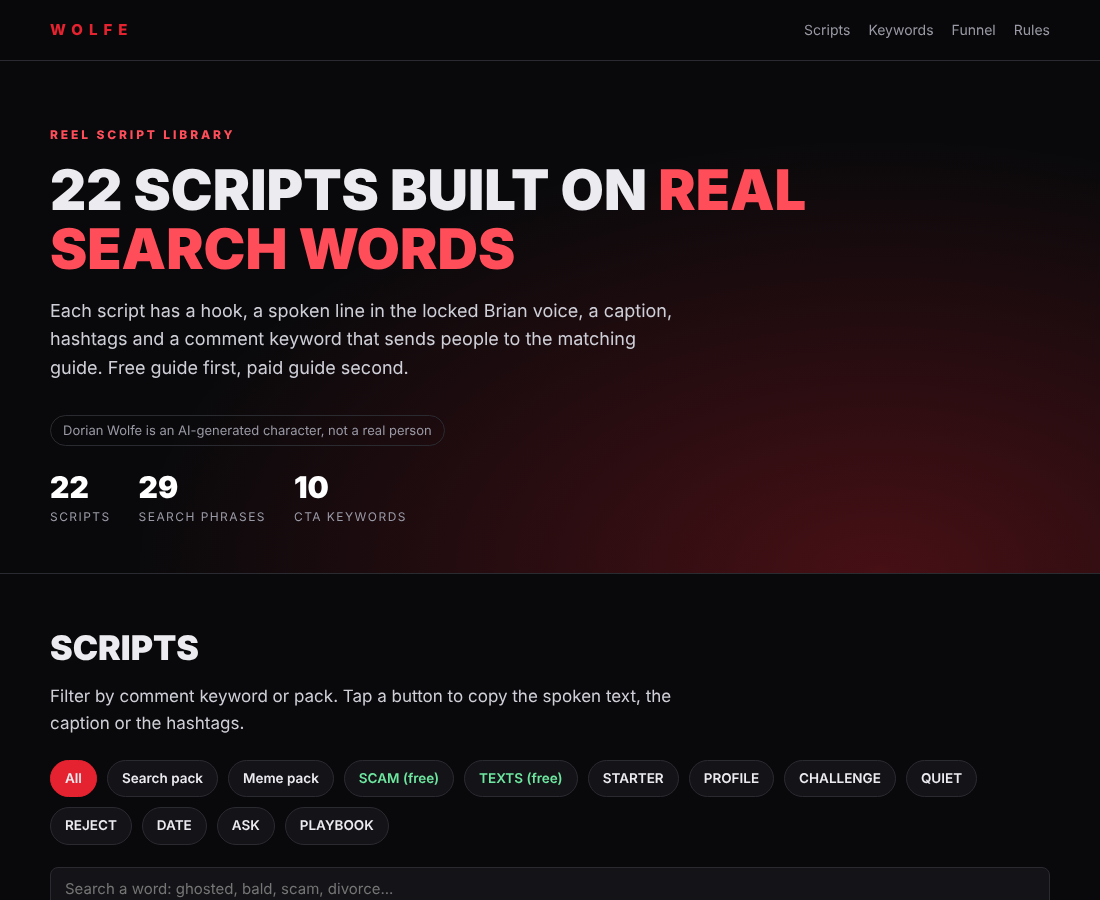
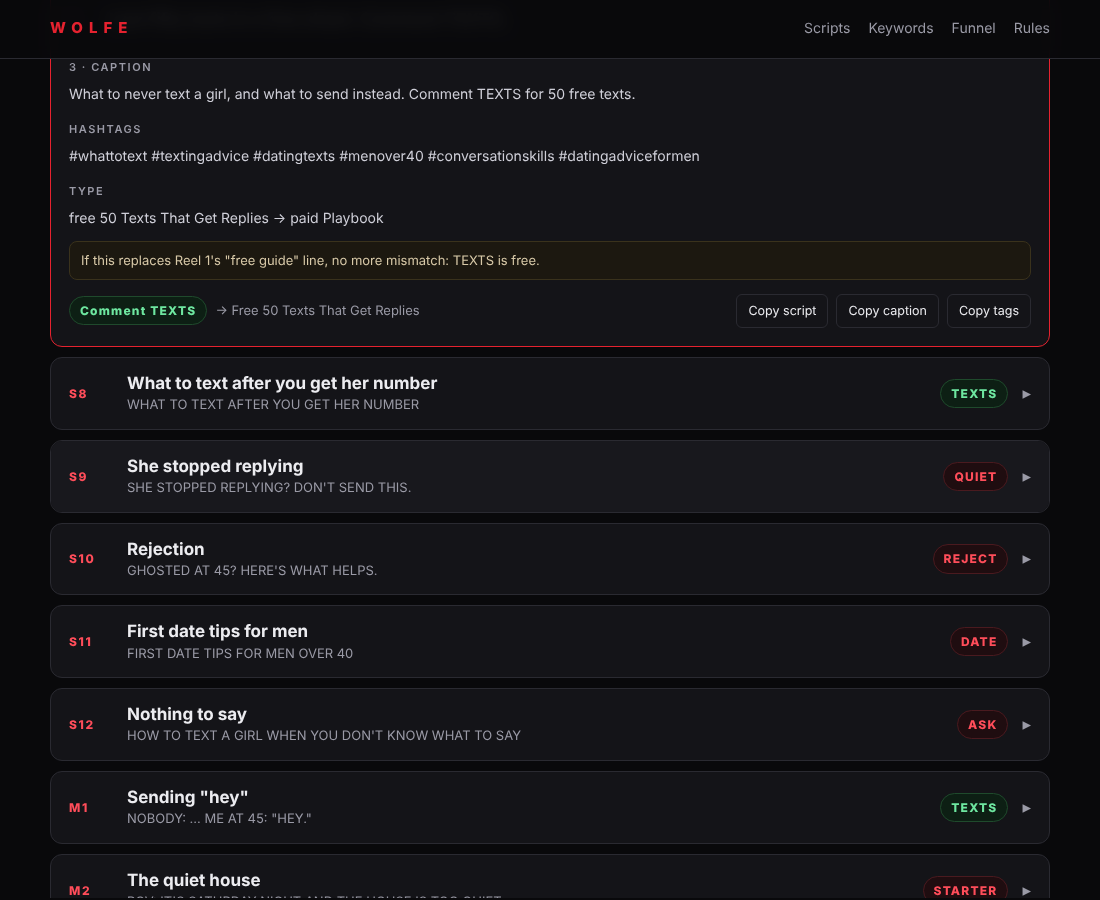
Script library: one script per row, spoken text shown line by line
Claude-Session: https://claude.ai/code/session_01HHQShzX9rwDCsFJD58ZkHd

diff --git a/sales-kit/scripts/index.html b/sales-kit/scripts/index.html
@@ -34,26 +34,36 @@ h2{font-size:clamp(24px,4vw,34px);line-height:1.1;margin:.2em 0 .5em;text-transf
 .chip.on{background:var(--red);border-color:var(--red)}
 .chip.free{color:var(--green)}.chip.free.on{color:#fff}
 #q{flex:1;min-width:200px;background:var(--panel);border:1px solid var(--line);color:var(--text);border-radius:8px;padding:9px 14px;font:inherit;font-size:15px}
-.grid{display:grid;grid-template-columns:repeat(auto-fill,minmax(310px,1fr));gap:20px}
-.card{background:var(--panel);border:1px solid var(--line);border-radius:14px;display:flex;flex-direction:column;overflow:hidden}
-.card .top{padding:16px 18px 6px}
-.code{font-size:11px;font-weight:800;letter-spacing:.2em;color:var(--red2);text-transform:uppercase}
-.card h3{margin:.15em 0 .1em;font-size:19px;line-height:1.25}
-.pain{font-size:13px;color:var(--mute)}
-.hook{margin:10px 18px;background:#0d0d10;border:1px solid #4a1a1f;border-left:3px solid var(--red);border-radius:8px;padding:10px 12px;font-family:ui-monospace,Menlo,Consolas,monospace;font-size:13.5px;color:var(--red2);font-weight:700}
-.hook small{display:block;color:var(--mute);font-weight:500;font-size:11px;letter-spacing:.14em;text-transform:uppercase;margin-bottom:2px;font-family:Inter,system-ui,sans-serif}
-.script{padding:4px 18px 8px;font-size:15px;color:#d8d8e0}
-.script p{margin:.55em 0}
-.meta{padding:0 18px 12px;font-size:13px;color:var(--mute)}
-.meta b{color:#cfcfd8}
-.kws{color:var(--mute);font-size:12.5px;padding:0 18px 8px}
-.foot{margin-top:auto;border-top:1px solid var(--line);padding:12px 18px;display:flex;gap:8px;flex-wrap:wrap;align-items:center}
-.cta{font-weight:800;letter-spacing:.1em;font-size:12px;background:#1f0d10;border:1px solid #4a1a1f;color:var(--red2);padding:4px 10px;border-radius:999px}
-.cta.free{background:#0d1f14;border-color:#1f4a2c;color:var(--green)}
-.to{font-size:12.5px;color:var(--mute);flex:1;min-width:120px}
-.cp{background:transparent;border:1px solid var(--line);color:var(--text);border-radius:6px;padding:5px 10px;font:inherit;font-size:12px;cursor:pointer}
+.list{display:flex;flex-direction:column;gap:10px}
+.item{background:var(--panel);border:1px solid var(--line);border-radius:12px;overflow:hidden}
+.item.open{border-color:var(--red)}
+.row{display:flex;align-items:center;gap:14px;width:100%;background:none;border:0;color:inherit;font:inherit;text-align:left;padding:14px 18px;cursor:pointer}
+.row:hover{background:#18181d}
+.num{flex:0 0 auto;min-width:44px;font-size:12px;font-weight:800;letter-spacing:.14em;color:var(--red2)}
+.rt{flex:1;min-width:0}
+.rt b{display:block;font-size:17px;line-height:1.3}
+.rt span{display:block;font-size:13px;color:var(--mute);white-space:nowrap;overflow:hidden;text-overflow:ellipsis}
+.arrow{color:var(--mute);transition:transform .2s;flex:0 0 auto}
+.item.open .arrow{transform:rotate(90deg);color:var(--red2)}
+.body{display:none;border-top:1px solid var(--line);padding:6px 18px 18px}
+.item.open .body{display:block}
+.hook{margin:14px 0 6px;background:#0d0d10;border:1px solid #4a1a1f;border-left:3px solid var(--red);border-radius:8px;padding:10px 12px;font-family:ui-monospace,Menlo,Consolas,monospace;font-size:14px;color:var(--red2);font-weight:700}
+.hook small,.lbl{display:block;color:var(--mute);font-weight:600;font-size:11px;letter-spacing:.14em;text-transform:uppercase;margin-bottom:3px;font-family:Inter,system-ui,sans-serif}
+.lbl{margin:16px 0 6px}
+.lines{counter-reset:l}
+.ln{display:flex;gap:14px;padding:11px 0;border-bottom:1px solid #202026;font-size:17px;line-height:1.5;color:#e4e4ea}
+.ln:last-child{border-bottom:0}
+.ln i{flex:0 0 26px;font-style:normal;font-size:12px;font-weight:800;color:var(--red2);padding-top:4px}
+.ln.cta{color:#fff;font-weight:700}
+.info{font-size:14px;color:#cfcfd8;margin:6px 0}
+.info b{color:#fff}
+.note{margin:12px 0 0;font-size:13px;color:#d8c9a8;background:#1c1810;border:1px solid #3a321c;border-radius:8px;padding:8px 11px}
+.acts{display:flex;gap:8px;flex-wrap:wrap;align-items:center;margin-top:14px}
+.cta-pill{font-weight:800;letter-spacing:.1em;font-size:12px;background:#1f0d10;border:1px solid #4a1a1f;color:var(--red2);padding:4px 10px;border-radius:999px}
+.cta-pill.free{background:#0d1f14;border-color:#1f4a2c;color:var(--green)}
+.to{font-size:13px;color:var(--mute);flex:1;min-width:140px}
+.cp{background:transparent;border:1px solid var(--line);color:var(--text);border-radius:6px;padding:6px 11px;font:inherit;font-size:12.5px;cursor:pointer}
 .cp:hover{border-color:var(--red)}
-.note{margin:0 18px 12px;font-size:12.5px;color:#d8c9a8;background:#1c1810;border:1px solid #3a321c;border-radius:8px;padding:7px 10px}
 table{width:100%;border-collapse:collapse;font-size:14.5px}
 th,td{text-align:left;padding:9px 10px;border-bottom:1px solid var(--line)}
 th{color:var(--mute);font-size:11.5px;letter-spacing:.14em;text-transform:uppercase}
@@ -84,10 +94,10 @@ footer p{max-width:760px}
 
 <section id="scripts"><div class="wrap">
   <h2>Scripts</h2>
-  <p class="lead">Filter by comment keyword or pack. Tap a button to copy the spoken text, the caption or the hashtags.</p>
+  <p class="lead">One script per row. Tap a row to open it: the spoken text is shown line by line, the way you read it into the voice. Filter by comment keyword or pack, or search a word.</p>
   <div class="tools" id="chips"></div>
   <div class="tools"><input id="q" type="search" placeholder="Search a word: ghosted, bald, scam, divorce..."></div>
-  <div class="grid" id="grid"></div>
+  <div class="list" id="grid"></div>
   <div class="empty" id="empty">No script matches. Clear the search.</div>
 </div></section>
 
@@ -162,22 +172,27 @@ document.getElementById('chips').onclick = e => {
 };
 document.getElementById('q').oninput = e => { query = e.target.value.toLowerCase(); render(); };
 
-function card(d, i){
+function card(d, i, open){
   const free = FREE.has(d.kw);
   const prod = PRODUCT[d.kw] ? PRODUCT[d.kw][0] : '';
   const sub = d.pack==='b' ? esc(d.fmt)+(d.pain? ' · pain: '+esc(d.pain):'') : esc(d.product||'');
-  return '<article class="card">'
-   +'<div class="top"><div class="code">'+esc(d.code)+(d.pack==='b'?' · Meme':' · Search')+'</div><h3>'+esc(cap(d.title))+'</h3><div class="pain">'+sub+'</div></div>'
-   +'<div class="hook"><small>On-screen hook</small>'+esc(d.hook)+'</div>'
-   +'<div class="script">'+d.script.map(l=>'<p>'+esc(l)+'</p>').join('')+'</div>'
-   +(d.keywords?'<div class="kws"><b>Search words:</b> '+esc(d.keywords)+'</div>':'')
-   +(d.caption?'<div class="meta"><b>Caption:</b> '+esc(d.caption)+'</div>':'')
-   +'<div class="meta"><b>Hashtags:</b> '+esc(d.tags)+'</div>'
+  const last = d.script.length-1;
+  return '<div class="item'+(open?' open':'')+'" data-i="'+i+'">'
+   +'<button class="row" data-toggle="'+i+'"><span class="num">'+esc(d.code)+'</span><span class="rt"><b>'+esc(cap(d.title))+'</b><span>'+esc(d.hook)+'</span></span><span class="cta-pill'+(free?' free':'')+'">'+esc(d.kw)+'</span><span class="arrow">&#9656;</span></button>'
+   +'<div class="body">'
+   +'<div class="hook"><small>1 · On-screen hook</small>'+esc(d.hook)+'</div>'
+   +'<div class="lbl">2 · Say it, line by line</div><div class="lines">'
+   +d.script.map((l,k)=>'<div class="ln'+(k===last?' cta':'')+'"><i>'+(k+1)+'</i><span>'+esc(l)+'</span></div>').join('')+'</div>'
+   +(d.keywords?'<div class="lbl">3 · Search words</div><div class="info">'+esc(d.keywords)+'</div>':'')
+   +(d.caption?'<div class="lbl">'+(d.keywords?'4':'3')+' · Caption</div><div class="info">'+esc(d.caption)+'</div>':'')
+   +'<div class="lbl">Hashtags</div><div class="info">'+esc(d.tags)+'</div>'
+   +(sub?'<div class="lbl">Type</div><div class="info">'+sub+'</div>':'')
    +(d.note?'<div class="note">'+esc(cap(d.note))+'</div>':'')
-   +'<div class="foot"><span class="cta'+(free?' free':'')+'">'+esc(d.kw)+'</span><span class="to">→ '+esc(prod)+'</span>'
+   +'<div class="acts"><span class="cta-pill'+(free?' free':'')+'">Comment '+esc(d.kw)+'</span><span class="to">&rarr; '+esc(prod)+'</span>'
    +'<button class="cp" data-i="'+i+'" data-w="script">Copy script</button>'
    +(d.caption?'<button class="cp" data-i="'+i+'" data-w="caption">Copy caption</button>':'')
-   +'<button class="cp" data-i="'+i+'" data-w="tags">Copy tags</button></div></article>';
+   +'<button class="cp" data-i="'+i+'" data-w="tags">Copy tags</button></div>'
+   +'</div></div>';
 }
 function render(){
   const list = DATA.scripts.map((d,i)=>[d,i]).filter(([d])=>{
@@ -187,10 +202,14 @@ function render(){
     if(query){ const h=(d.title+d.hook+d.script.join(' ')+d.caption+d.tags+d.keywords+d.pain+d.fmt).toLowerCase(); if(!h.includes(query)) return false; }
     return true;
   });
-  document.getElementById('grid').innerHTML = list.map(([d,i])=>card(d,i)).join('');
+  document.getElementById('grid').innerHTML = list.map(([d,i],n)=>card(d,i,n===0&&list.length===1)).join('');
   document.getElementById('empty').style.display = list.length?'none':'block';
 }
 document.getElementById('grid').onclick = e => {
+  const tg = e.target.closest('[data-toggle]');
+  if(tg){ const it = tg.closest('.item'); const was = it.classList.contains('open');
+    document.querySelectorAll('.item.open').forEach(x=>x.classList.remove('open'));
+    if(!was){ it.classList.add('open'); it.scrollIntoView({block:'nearest',behavior:'smooth'}); } return; }
   const b = e.target.closest('.cp'); if(!b) return;
   const d = DATA.scripts[+b.dataset.i], w = b.dataset.w;
   const t = w==='script' ? d.script.join('\n\n') : w==='caption' ? d.caption : d.tags;
@@ -198,7 +217,7 @@ document.getElementById('grid').onclick = e => {
   if(navigator.clipboard) navigator.clipboard.writeText(t).then(done, done); else done();
 };
 document.querySelector('#bank tbody').innerHTML = DATA.bank.map(r=>'<tr>'+r.map(c=>'<td>'+esc(c)+'</td>').join('')+'</tr>').join('');
-document.querySelector('#fun tbody').innerHTML = Object.entries(PRODUCT).map(([k,v])=>'<tr><td><span class="cta'+(FREE.has(k)?' free':'')+'">'+k+'</span></td><td>'+esc(v[0])+'</td><td>'+esc(v[1])+'</td></tr>').join('');
+document.querySelector('#fun tbody').innerHTML = Object.entries(PRODUCT).map(([k,v])=>'<tr><td><span class="cta-pill'+(FREE.has(k)?' free':'')+'">'+k+'</span></td><td>'+esc(v[0])+'</td><td>'+esc(v[1])+'</td></tr>').join('');
 render();
 </script>
 </body></html>

diff --git a/sales-kit/scripts/template.html b/sales-kit/scripts/template.html
@@ -34,26 +34,36 @@ h2{font-size:clamp(24px,4vw,34px);line-height:1.1;margin:.2em 0 .5em;text-transf
 .chip.on{background:var(--red);border-color:var(--red)}
 .chip.free{color:var(--green)}.chip.free.on{color:#fff}
 #q{flex:1;min-width:200px;background:var(--panel);border:1px solid var(--line);color:var(--text);border-radius:8px;padding:9px 14px;font:inherit;font-size:15px}
-.grid{display:grid;grid-template-columns:repeat(auto-fill,minmax(310px,1fr));gap:20px}
-.card{background:var(--panel);border:1px solid var(--line);border-radius:14px;display:flex;flex-direction:column;overflow:hidden}
-.card .top{padding:16px 18px 6px}
-.code{font-size:11px;font-weight:800;letter-spacing:.2em;color:var(--red2);text-transform:uppercase}
-.card h3{margin:.15em 0 .1em;font-size:19px;line-height:1.25}
-.pain{font-size:13px;color:var(--mute)}
-.hook{margin:10px 18px;background:#0d0d10;border:1px solid #4a1a1f;border-left:3px solid var(--red);border-radius:8px;padding:10px 12px;font-family:ui-monospace,Menlo,Consolas,monospace;font-size:13.5px;color:var(--red2);font-weight:700}
-.hook small{display:block;color:var(--mute);font-weight:500;font-size:11px;letter-spacing:.14em;text-transform:uppercase;margin-bottom:2px;font-family:Inter,system-ui,sans-serif}
-.script{padding:4px 18px 8px;font-size:15px;color:#d8d8e0}
-.script p{margin:.55em 0}
-.meta{padding:0 18px 12px;font-size:13px;color:var(--mute)}
-.meta b{color:#cfcfd8}
-.kws{color:var(--mute);font-size:12.5px;padding:0 18px 8px}
-.foot{margin-top:auto;border-top:1px solid var(--line);padding:12px 18px;display:flex;gap:8px;flex-wrap:wrap;align-items:center}
-.cta{font-weight:800;letter-spacing:.1em;font-size:12px;background:#1f0d10;border:1px solid #4a1a1f;color:var(--red2);padding:4px 10px;border-radius:999px}
-.cta.free{background:#0d1f14;border-color:#1f4a2c;color:var(--green)}
-.to{font-size:12.5px;color:var(--mute);flex:1;min-width:120px}
-.cp{background:transparent;border:1px solid var(--line);color:var(--text);border-radius:6px;padding:5px 10px;font:inherit;font-size:12px;cursor:pointer}
+.list{display:flex;flex-direction:column;gap:10px}
+.item{background:var(--panel);border:1px solid var(--line);border-radius:12px;overflow:hidden}
+.item.open{border-color:var(--red)}
+.row{display:flex;align-items:center;gap:14px;width:100%;background:none;border:0;color:inherit;font:inherit;text-align:left;padding:14px 18px;cursor:pointer}
+.row:hover{background:#18181d}
+.num{flex:0 0 auto;min-width:44px;font-size:12px;font-weight:800;letter-spacing:.14em;color:var(--red2)}
+.rt{flex:1;min-width:0}
+.rt b{display:block;font-size:17px;line-height:1.3}
+.rt span{display:block;font-size:13px;color:var(--mute);white-space:nowrap;overflow:hidden;text-overflow:ellipsis}
+.arrow{color:var(--mute);transition:transform .2s;flex:0 0 auto}
+.item.open .arrow{transform:rotate(90deg);color:var(--red2)}
+.body{display:none;border-top:1px solid var(--line);padding:6px 18px 18px}
+.item.open .body{display:block}
+.hook{margin:14px 0 6px;background:#0d0d10;border:1px solid #4a1a1f;border-left:3px solid var(--red);border-radius:8px;padding:10px 12px;font-family:ui-monospace,Menlo,Consolas,monospace;font-size:14px;color:var(--red2);font-weight:700}
+.hook small,.lbl{display:block;color:var(--mute);font-weight:600;font-size:11px;letter-spacing:.14em;text-transform:uppercase;margin-bottom:3px;font-family:Inter,system-ui,sans-serif}
+.lbl{margin:16px 0 6px}
+.lines{counter-reset:l}
+.ln{display:flex;gap:14px;padding:11px 0;border-bottom:1px solid #202026;font-size:17px;line-height:1.5;color:#e4e4ea}
+.ln:last-child{border-bottom:0}
+.ln i{flex:0 0 26px;font-style:normal;font-size:12px;font-weight:800;color:var(--red2);padding-top:4px}
+.ln.cta{color:#fff;font-weight:700}
+.info{font-size:14px;color:#cfcfd8;margin:6px 0}
+.info b{color:#fff}
+.note{margin:12px 0 0;font-size:13px;color:#d8c9a8;background:#1c1810;border:1px solid #3a321c;border-radius:8px;padding:8px 11px}
+.acts{display:flex;gap:8px;flex-wrap:wrap;align-items:center;margin-top:14px}
+.cta-pill{font-weight:800;letter-spacing:.1em;font-size:12px;background:#1f0d10;border:1px solid #4a1a1f;color:var(--red2);padding:4px 10px;border-radius:999px}
+.cta-pill.free{background:#0d1f14;border-color:#1f4a2c;color:var(--green)}
+.to{font-size:13px;color:var(--mute);flex:1;min-width:140px}
+.cp{background:transparent;border:1px solid var(--line);color:var(--text);border-radius:6px;padding:6px 11px;font:inherit;font-size:12.5px;cursor:pointer}
 .cp:hover{border-color:var(--red)}
-.note{margin:0 18px 12px;font-size:12.5px;color:#d8c9a8;background:#1c1810;border:1px solid #3a321c;border-radius:8px;padding:7px 10px}
 table{width:100%;border-collapse:collapse;font-size:14.5px}
 th,td{text-align:left;padding:9px 10px;border-bottom:1px solid var(--line)}
 th{color:var(--mute);font-size:11.5px;letter-spacing:.14em;text-transform:uppercase}
@@ -84,10 +94,10 @@ footer p{max-width:760px}
 
 <section id="scripts"><div class="wrap">
   <h2>Scripts</h2>
-  <p class="lead">Filter by comment keyword or pack. Tap a button to copy the spoken text, the caption or the hashtags.</p>
+  <p class="lead">One script per row. Tap a row to open it: the spoken text is shown line by line, the way you read it into the voice. Filter by comment keyword or pack, or search a word.</p>
   <div class="tools" id="chips"></div>
   <div class="tools"><input id="q" type="search" placeholder="Search a word: ghosted, bald, scam, divorce..."></div>
-  <div class="grid" id="grid"></div>
+  <div class="list" id="grid"></div>
   <div class="empty" id="empty">No script matches. Clear the search.</div>
 </div></section>
 
@@ -162,22 +172,27 @@ document.getElementById('chips').onclick = e => {
 };
 document.getElementById('q').oninput = e => { query = e.target.value.toLowerCase(); render(); };
 
-function card(d, i){
+function card(d, i, open){
   const free = FREE.has(d.kw);
   const prod = PRODUCT[d.kw] ? PRODUCT[d.kw][0] : '';
   const sub = d.pack==='b' ? esc(d.fmt)+(d.pain? ' · pain: '+esc(d.pain):'') : esc(d.product||'');
-  return '<article class="card">'
-   +'<div class="top"><div class="code">'+esc(d.code)+(d.pack==='b'?' · Meme':' · Search')+'</div><h3>'+esc(cap(d.title))+'</h3><div class="pain">'+sub+'</div></div>'
-   +'<div class="hook"><small>On-screen hook</small>'+esc(d.hook)+'</div>'
-   +'<div class="script">'+d.script.map(l=>'<p>'+esc(l)+'</p>').join('')+'</div>'
-   +(d.keywords?'<div class="kws"><b>Search words:</b> '+esc(d.keywords)+'</div>':'')
-   +(d.caption?'<div class="meta"><b>Caption:</b> '+esc(d.caption)+'</div>':'')
-   +'<div class="meta"><b>Hashtags:</b> '+esc(d.tags)+'</div>'
+  const last = d.script.length-1;
+  return '<div class="item'+(open?' open':'')+'" data-i="'+i+'">'
+   +'<button class="row" data-toggle="'+i+'"><span class="num">'+esc(d.code)+'</span><span class="rt"><b>'+esc(cap(d.title))+'</b><span>'+esc(d.hook)+'</span></span><span class="cta-pill'+(free?' free':'')+'">'+esc(d.kw)+'</span><span class="arrow">&#9656;</span></button>'
+   +'<div class="body">'
+   +'<div class="hook"><small>1 · On-screen hook</small>'+esc(d.hook)+'</div>'
+   +'<div class="lbl">2 · Say it, line by line</div><div class="lines">'
+   +d.script.map((l,k)=>'<div class="ln'+(k===last?' cta':'')+'"><i>'+(k+1)+'</i><span>'+esc(l)+'</span></div>').join('')+'</div>'
+   +(d.keywords?'<div class="lbl">3 · Search words</div><div class="info">'+esc(d.keywords)+'</div>':'')
+   +(d.caption?'<div class="lbl">'+(d.keywords?'4':'3')+' · Caption</div><div class="info">'+esc(d.caption)+'</div>':'')
+   +'<div class="lbl">Hashtags</div><div class="info">'+esc(d.tags)+'</div>'
+   +(sub?'<div class="lbl">Type</div><div class="info">'+sub+'</div>':'')
    +(d.note?'<div class="note">'+esc(cap(d.note))+'</div>':'')
-   +'<div class="foot"><span class="cta'+(free?' free':'')+'">'+esc(d.kw)+'</span><span class="to">→ '+esc(prod)+'</span>'
+   +'<div class="acts"><span class="cta-pill'+(free?' free':'')+'">Comment '+esc(d.kw)+'</span><span class="to">&rarr; '+esc(prod)+'</span>'
    +'<button class="cp" data-i="'+i+'" data-w="script">Copy script</button>'
    +(d.caption?'<button class="cp" data-i="'+i+'" data-w="caption">Copy caption</button>':'')
-   +'<button class="cp" data-i="'+i+'" data-w="tags">Copy tags</button></div></article>';
+   +'<button class="cp" data-i="'+i+'" data-w="tags">Copy tags</button></div>'
+   +'</div></div>';
 }
 function render(){
   const list = DATA.scripts.map((d,i)=>[d,i]).filter(([d])=>{
@@ -187,10 +202,14 @@ function render(){
     if(query){ const h=(d.title+d.hook+d.script.join(' ')+d.caption+d.tags+d.keywords+d.pain+d.fmt).toLowerCase(); if(!h.includes(query)) return false; }
     return true;
   });
-  document.getElementById('grid').innerHTML = list.map(([d,i])=>card(d,i)).join('');
+  document.getElementById('grid').innerHTML = list.map(([d,i],n)=>card(d,i,n===0&&list.length===1)).join('');
   document.getElementById('empty').style.display = list.length?'none':'block';
 }
 document.getElementById('grid').onclick = e => {
+  const tg = e.target.closest('[data-toggle]');
+  if(tg){ const it = tg.closest('.item'); const was = it.classList.contains('open');
+    document.querySelectorAll('.item.open').forEach(x=>x.classList.remove('open'));
+    if(!was){ it.classList.add('open'); it.scrollIntoView({block:'nearest',behavior:'smooth'}); } return; }
   const b = e.target.closest('.cp'); if(!b) return;
   const d = DATA.scripts[+b.dataset.i], w = b.dataset.w;
   const t = w==='script' ? d.script.join('\n\n') : w==='caption' ? d.caption : d.tags;
@@ -198,7 +217,7 @@ document.getElementById('grid').onclick = e => {
   if(navigator.clipboard) navigator.clipboard.writeText(t).then(done, done); else done();
 };
 document.querySelector('#bank tbody').innerHTML = DATA.bank.map(r=>'<tr>'+r.map(c=>'<td>'+esc(c)+'</td>').join('')+'</tr>').join('');
-document.querySelector('#fun tbody').innerHTML = Object.entries(PRODUCT).map(([k,v])=>'<tr><td><span class="cta'+(FREE.has(k)?' free':'')+'">'+k+'</span></td><td>'+esc(v[0])+'</td><td>'+esc(v[1])+'</td></tr>').join('');
+document.querySelector('#fun tbody').innerHTML = Object.entries(PRODUCT).map(([k,v])=>'<tr><td><span class="cta-pill'+(FREE.has(k)?' free':'')+'">'+k+'</span></td><td>'+esc(v[0])+'</td><td>'+esc(v[1])+'</td></tr>').join('');
 render();
 </script>
 </body></html>
